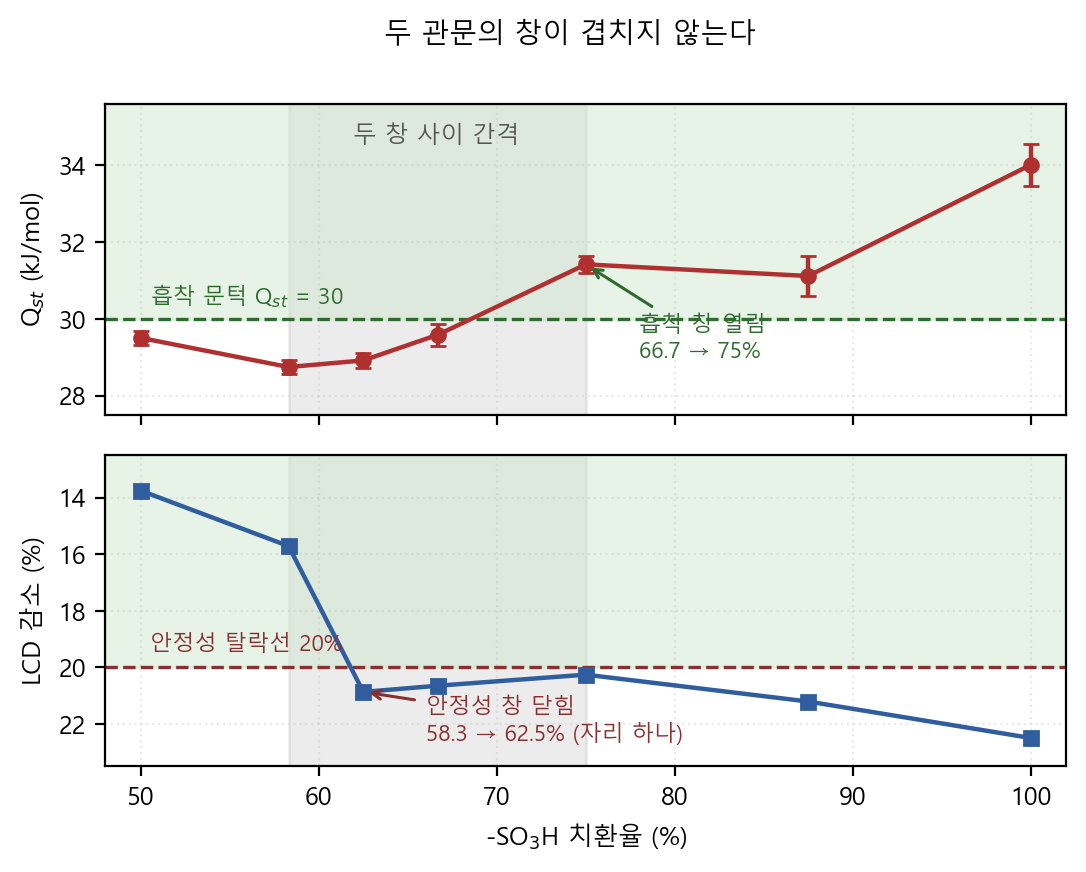
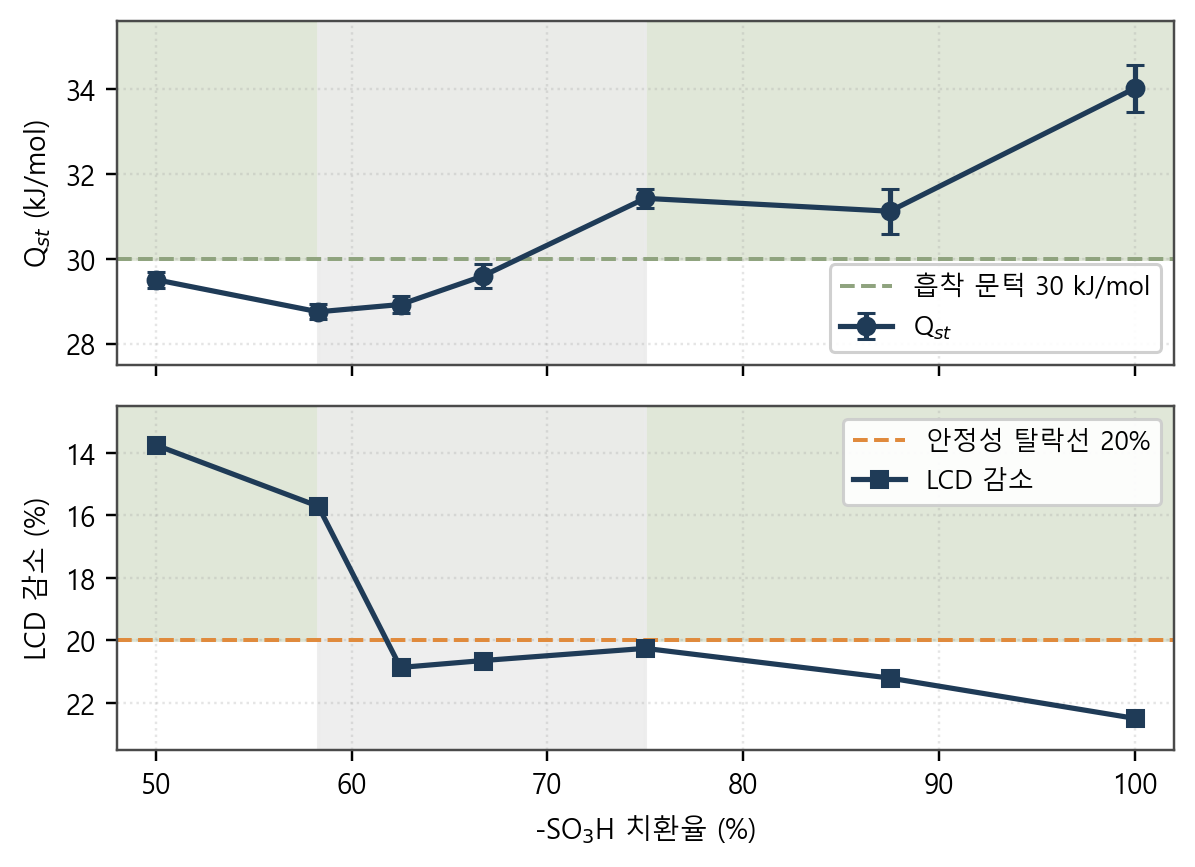
Figures: navy/orange/sage palette, no on-plot annotation
Regenerated all five with a single palette (#1F3B57 navy, #E08A3C orange,
#8FA37E sage) and stripped every title, arrow annotation and floating
text label, so the plots carry only axes, legends and reference lines and
the interpretation lives in the report captions instead.

Three legends were sitting on top of the data and moved: figure 4's was
covering the 58.3 to 62.5 collapse, which is the entire point of that
panel; figure 3's was covering the water/CO2 curve at low substitution;
figure 5's was hiding the 75% bar. Figure 3 gained headroom rather than
shrinking the legend.

Provenance, since it was asked: figures 2 through 5 plot measured GCMC
output directly from results_v3/v3grid/v4mix, v3_water, risk_results and
the humid working-capacity JSONs, error bars included. Figure 6 is the
only computed curve — a Langmuir/van't Hoff model whose parameters come
from regressing 38 measured (Q_st, K_H) pairs, so it is fitted to data
but not itself a set of measurements.

Claude-Session: https://claude.ai/code/session_016GdUg8U1oPQTdSB5AMZPHz

Changed region(s): [[0.0, 0.0, 1.0, 0.9965], [0.8508, 0.218, 0.9116, 0.2491], [0.8204, 0.1557, 0.8812, 0.1869]]

diff --git a/tools/make_figs.py b/tools/make_figs.py
@@ -1,0 +1,215 @@
+# -*- coding: utf-8 -*-
+"""보고서 그림 생성 — 네이비/오렌지/세이지 팔레트.
+
+방침: 그래프 위에 제목·화살표 주석·설명 문구를 넣지 않는다.
+축 이름과 범례만 둔다. 해설은 보고서 본문 캡션이 맡는다.
+"""
+import json, math, os
+import matplotlib
+matplotlib.use('Agg')
+import matplotlib.pyplot as plt
+from matplotlib import font_manager as fm
+import numpy as np
+
+FP = '/mnt/c/Windows/Fonts/malgun.ttf'
+fm.fontManager.addfont(FP); fm.fontManager.addfont('/mnt/c/Windows/Fonts/malgunbd.ttf')
+plt.rcParams['font.family'] = fm.FontProperties(fname=FP).get_name()
+plt.rcParams['axes.unicode_minus'] = False        # Malgun 에 U+2212 없음
+plt.rcParams['font.size'] = 9
+plt.rcParams['axes.edgecolor'] = '#4A4A4A'
+plt.rcParams['axes.linewidth'] = 0.8
+
+NAVY  = '#1F3B57'
+ORANGE= '#E08A3C'
+SAGE  = '#8FA37E'
+SAGE_L= '#D6DFCC'      # 세이지 음영
+ORNG_L= '#F5DCC2'      # 오렌지 음영
+GREY  = '#9A9A9A'
+GREY_L= '#ECECEC'
+
+Z = '21_ZIF69_MTV/'
+OUT = '04_Analysis/figs/'
+SUB = '-SO$_3$H 치환율 (%)'
+os.makedirs(OUT, exist_ok=True)
+
+rows = {}
+for f in ('results_v3.json', 'results_v3grid.json', 'results_v4mix.json'):
+    for r in json.load(open(Z + f))['rows']:
+        if r.get('status') == 'ok':
+            rows[r['name']] = r
+risk = {}
+for f in ('risk_results_v3grid.json', 'risk_results_v3.json'):
+    for r in json.load(open(Z + f))['rows']:
+        risk[r['name']] = r['LCD_drop_pct']
+
+
+def finish(fig, name):
+    fig.savefig(OUT + name, dpi=220, bbox_inches='tight', facecolor='white')
+    plt.close(fig)
+    print('  ', name)
+
+
+# ── 그림 2 : 치환율 사다리 ───────────────────────────────
+tags = [('base', 0), ('saIm025', 25), ('saIm050', 50), ('saIm0583', 58.3),
+        ('saIm075', 75), ('saIm0875', 87.5), ('saIm100', 100)]
+x = [f for _, f in tags]
+q = [rows[t]['Qst_CO2'] for t, _ in tags]
+qe = [rows[t]['Qst_CO2_err'] for t, _ in tags]
+ld = [rows[t]['loading_015bar'] for t, _ in tags]
+le = [rows[t]['loading_015bar_err'] for t, _ in tags]
+
+fig, ax = plt.subplots(figsize=(6.2, 3.2))
+ax.axhspan(30, 40, color=SAGE_L, alpha=.75, zorder=0)
+ax.errorbar(x, q, yerr=qe, marker='o', color=NAVY, lw=1.7, ms=5.5,
+            capsize=3, zorder=3, label='Q$_{st}$ (좌축)')
+ax.set_xlabel(SUB); ax.set_ylabel('Q$_{st}$ (kJ/mol)', color=NAVY)
+ax.tick_params(axis='y', labelcolor=NAVY)
+ax.set_ylim(20, 42); ax.set_xlim(-4, 104)
+ax2 = ax.twinx()
+ax2.errorbar(x, ld, yerr=le, marker='s', color=ORANGE, lw=1.7, ms=5.5,
+             capsize=3, ls='--', label='0.15 bar 로딩 (우축)')
+ax2.set_ylabel('0.15 bar CO$_2$ 로딩 (mol/kg)', color=ORANGE)
+ax2.tick_params(axis='y', labelcolor=ORANGE); ax2.set_ylim(0.4, 1.75)
+h1, l1 = ax.get_legend_handles_labels(); h2, l2 = ax2.get_legend_handles_labels()
+ax.legend(h1 + h2, l1 + l2, loc='lower right', fontsize=8.5, framealpha=.92)
+ax.grid(alpha=.25, ls=':', color=GREY)
+finish(fig, 'fig2_ladder.png')
+
+
+# ── 그림 3 : 수분 경쟁 ──────────────────────────────────
+w = json.load(open(Z + 'v3_water/water_results.json'))
+comp = ['base', 'saIm025', 'saIm050', 'saIm075', 'saIm100']
+xs = [0, 25, 50, 75, 100]
+ret, rerr, ratio = [], [], []
+for c in comp:
+    r0 = [r for r in w if r['name'] == c and r['RH'] == 0.0][0]
+    r9 = [r for r in w if r['name'] == c and r['RH'] == 0.9][0]
+    ret.append(r9['CO2_retention_pct'])
+    rerr.append(r9['CO2_retention_pct'] * math.sqrt(
+        (r9['CO2_err'] / r9['CO2_molkg']) ** 2 + (r0['CO2_err'] / r0['CO2_molkg']) ** 2))
+    ratio.append(r9['H2O_over_CO2'])
+
+fig, ax = plt.subplots(figsize=(6.2, 3.2))
+ax.axhspan(80, 113, color=SAGE_L, alpha=.8, zorder=0)
+ax.axhspan(50, 80, color=ORNG_L, alpha=.7, zorder=0)
+ax.errorbar(xs, ret, yerr=rerr, marker='o', color=NAVY, lw=1.7, ms=6,
+            capsize=3, zorder=3, label='RH90 유지율 (좌축)')
+ax.set_xlabel(SUB); ax.set_ylabel('RH90 CO$_2$ 유지율 (%)', color=NAVY)
+ax.tick_params(axis='y', labelcolor=NAVY)
+ax.set_ylim(48, 113); ax.set_xlim(-5, 105)
+ax2 = ax.twinx()
+ax2.plot(xs, ratio, marker='^', color=ORANGE, lw=1.7, ms=6.5, ls='--',
+         label='H$_2$O / CO$_2$ (우축)')
+ax2.set_ylabel('흡착 시 H$_2$O / CO$_2$', color=ORANGE)
+ax2.tick_params(axis='y', labelcolor=ORANGE); ax2.set_ylim(0.6, 2.88)
+h1, l1 = ax.get_legend_handles_labels(); h2, l2 = ax2.get_legend_handles_labels()
+ax.legend(h1 + h2, l1 + l2, loc='upper right', ncol=2, fontsize=8.5, framealpha=.92)
+ax.grid(alpha=.25, ls=':', color=GREY)
+finish(fig, 'fig3_water.png')
+
+
+# ── 그림 4 : 두 관문 ────────────────────────────────────
+g = [('saIm050', 50), ('saIm0583', 58.3), ('saIm0625', 62.5), ('saIm0667', 66.7),
+     ('saIm075', 75), ('saIm0875', 87.5), ('saIm100', 100)]
+gx = [f for _, f in g]
+gq = [rows[t]['Qst_CO2'] for t, _ in g]
+gqe = [rows[t]['Qst_CO2_err'] for t, _ in g]
+gl = [risk[t] for t, _ in g]
+
+fig, (a1, a2) = plt.subplots(2, 1, figsize=(6.2, 4.3), sharex=True,
+                             gridspec_kw={'hspace': 0.12})
+a1.axhspan(30, 35.6, color=SAGE_L, alpha=.75, zorder=0)
+a1.axvspan(58.3, 75, color=GREY_L, alpha=.85, zorder=0)
+a1.axhline(30, color=SAGE, ls='--', lw=1.3, zorder=2, label='흡착 문턱 30 kJ/mol')
+a1.errorbar(gx, gq, yerr=gqe, marker='o', color=NAVY, lw=1.7, ms=5.5,
+            capsize=3, zorder=3, label='Q$_{st}$')
+a1.set_ylabel('Q$_{st}$ (kJ/mol)'); a1.set_ylim(27.5, 35.6)
+a1.legend(loc='lower right', fontsize=8.5, framealpha=.92)
+a1.grid(alpha=.25, ls=':', color=GREY)
+
+a2.axhspan(12.5, 20, color=SAGE_L, alpha=.75, zorder=0)
+a2.axvspan(58.3, 75, color=GREY_L, alpha=.85, zorder=0)
+a2.axhline(20, color=ORANGE, ls='--', lw=1.3, zorder=2, label='안정성 탈락선 20%')
+a2.plot(gx, gl, marker='s', color=NAVY, lw=1.7, ms=5.5, zorder=3,
+        label='LCD 감소')
+a2.set_ylabel('LCD 감소 (%)'); a2.set_xlabel(SUB)
+a2.set_ylim(12.5, 23.5); a2.invert_yaxis()
+a2.legend(loc='upper right', fontsize=8.5, framealpha=.92)
+a2.grid(alpha=.25, ls=':', color=GREY)
+a1.set_xlim(48, 102)
+finish(fig, 'fig4_windows.png')
+
+
+# ── 그림 5 : 습윤 작업 용량 ─────────────────────────────
+hw = {}
+for f in ('humid_working_capacity.json', 'humid_working_capacity_g0583.json'):
+    for r in json.load(open(Z + 'v3_humid_wc/' + f))['rows']:
+        hw[r['name']] = r
+v4 = {}
+for f in ('humid_working_capacity_v4m1.json', 'humid_working_capacity_v4ext.json'):
+    for r in json.load(open(Z + 'v4_humid_wc/' + f))['rows']:
+        v4[r['name']] = r
+
+fig, (a1, a2) = plt.subplots(1, 2, figsize=(6.6, 3.1),
+                             gridspec_kw={'width_ratios': [1.25, 1]})
+names = [('base', '무치환', True), ('saIm050', '50%', True),
+         ('saIm0583', '58.3%', True), ('saIm075', '75%', False),
+         ('saIm100', '100%', False)]
+xs = np.arange(len(names))
+v = [hw[n]['working_capacity']['tsa']['value'] for n, _, _ in names]
+e = [hw[n]['working_capacity']['tsa']['err'] for n, _, _ in names]
+cols = [NAVY if ok else GREY for _, _, ok in names]
+a1.bar(xs, v, yerr=e, capsize=3, color=cols, edgecolor='#3A3A3A', lw=.6)
+a1.set_xticks(xs); a1.set_xticklabels([lb for _, lb, _ in names], fontsize=8.5)
+a1.set_ylabel('습윤 TSA 작업 용량 (mol/kg)'); a1.set_ylim(0, 1.0)
+a1.set_xlabel('-SO$_3$H 단독 치환')
+a1.bar(0, 0, color=NAVY, label='안정성 관문 통과')
+a1.bar(0, 0, color=GREY, label='관문 탈락')
+a1.legend(fontsize=8, loc='upper left', framealpha=.92)
+a1.grid(alpha=.25, ls=':', axis='y', color=GREY)
+
+nm = [('-SO$_3$H\n58.3%', hw['saIm0583']['working_capacity']['tsa'], NAVY),
+      ('-SO$_3$H50\n+-NO$_2$50', v4['sa50nb50']['working_capacity']['tsa'], ORANGE),
+      ('-SO$_2$CH$_3$50\n+-NO$_2$50', v4['ms50nb50']['working_capacity']['tsa'], SAGE),
+      ('-SO$_3$H25\n+-NO$_2$75', v4['sa25nb75']['working_capacity']['tsa'], SAGE)]
+xs2 = np.arange(len(nm))
+a2.bar(xs2, [d['value'] for _, d, _ in nm], yerr=[d['err'] for _, d, _ in nm],
+       capsize=3, color=[c for _, _, c in nm], edgecolor='#3A3A3A', lw=.6)
+a2.set_xticks(xs2); a2.set_xticklabels([lb for lb, _, _ in nm], fontsize=7.5)
+a2.set_ylim(0, 1.0); a2.set_xlabel('단일 vs 혼합 치환')
+a2.grid(alpha=.25, ls=':', axis='y', color=GREY)
+fig.tight_layout()
+finish(fig, 'fig5_wc.png')
+
+
+# ── 그림 6 : Q_st 창 (모형 곡선) ────────────────────────
+R = 8.314e-3; A, B = -13.979, 0.4511; T1, T2 = 298.0, 373.0; P = 15000.0
+
+
+def KH(Q, T):
+    return math.exp(A + B * (Q / (R * T1))) * math.exp((Q / R) * (1 / T - 1 / T1))
+
+
+def wc(Q, ns):
+    f = []
+    for T in (T1, T2):
+        b = KH(Q, T) / ns
+        f.append(ns * b * P / (1 + b * P))
+    return f[0] - f[1]
+
+
+Qs = np.arange(18, 60.1, 0.25)
+fig, ax = plt.subplots(figsize=(6.2, 3.1))
+ax.axvspan(30, 40, color=SAGE_L, alpha=.8, zorder=0)
+for ns, col, ls in ((2.0, SAGE, ':'), (2.5, NAVY, '-'), (4.0, ORANGE, '--')):
+    E = [Q + 67.5 / wc(Q, ns) for Q in Qs]
+    ax.plot(Qs, E, ls, lw=1.8, color=col, label=f'n$_{{sat}}$ = {ns} mol/kg')
+    i = int(np.argmin(E))
+    ax.plot(Qs[i], E[i], 'v', ms=7, color=col, mec='#3A3A3A', mew=.6)
+ax.set_xlabel('Q$_{st}$ (kJ/mol)')
+ax.set_ylabel('총 재생 에너지 (kJ/mol-CO$_2$)')
+ax.set_ylim(50, 230); ax.set_xlim(18, 60)
+ax.legend(fontsize=8.5, framealpha=.92)
+ax.grid(alpha=.25, ls=':', color=GREY)
+finish(fig, 'fig6_window.png')
+print('\n완료 — 팔레트 navy %s / orange %s / sage %s' % (NAVY, ORANGE, SAGE))
